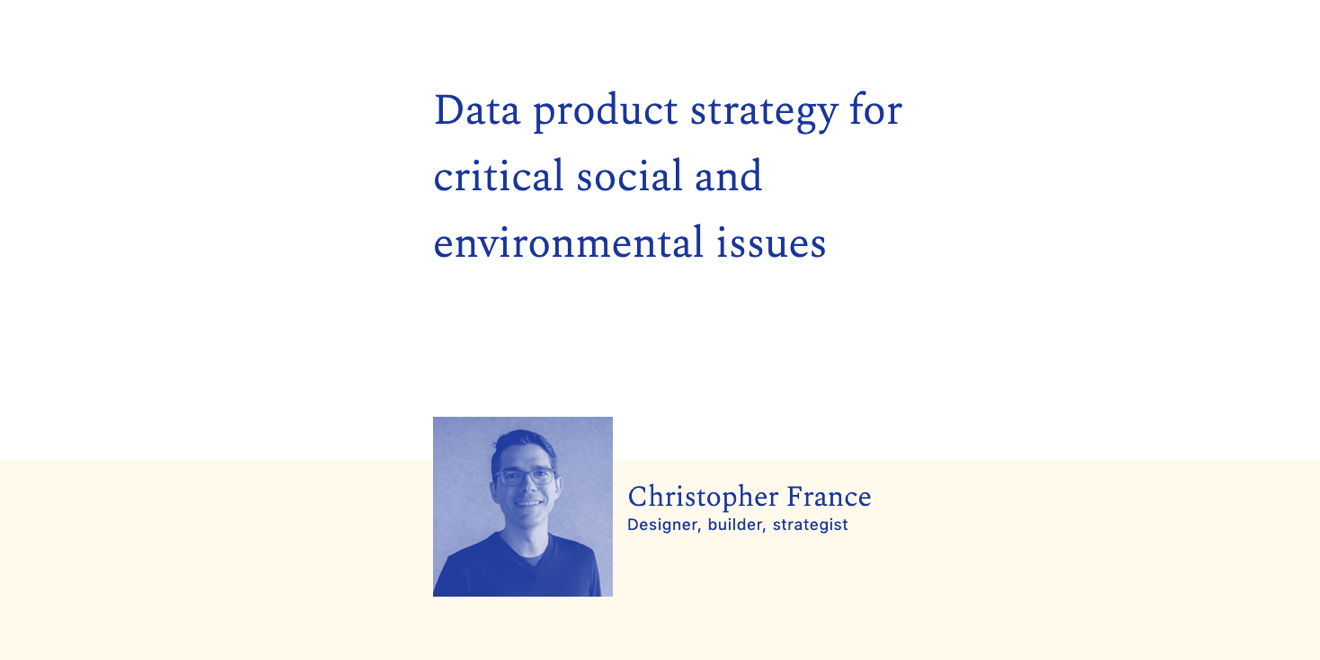
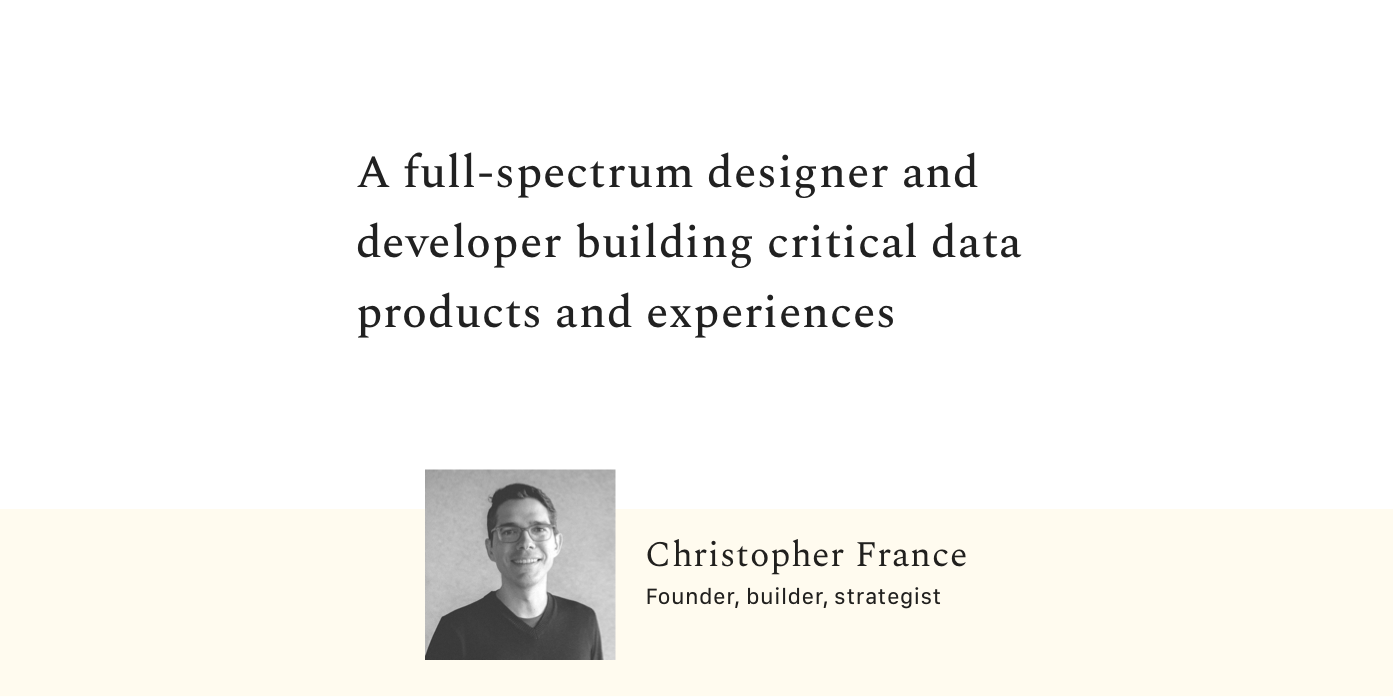
Refine header, black and white photo

Changed region(s): [[0.2795, 0.6061, 0.7144, 0.9697], [0.2485, 0.1515, 0.7455, 0.3939], [0.2485, 0.4242, 0.6523, 0.4848]]

diff --git a/src/pages/index.js b/src/pages/index.js
@@ -2,7 +2,7 @@ import React from 'react'
 import PropTypes from 'prop-types'
 import { Link, graphql } from 'gatsby'
 import styled from 'styled-components'
-import christopherImage from 'assets/christopher3-overlay-213768.png'
+import christopherImage from 'assets/christopher4.png'
 import { Row, Column, SectionTitle, MainContent } from 'styles/styles'
 import theme from 'theme'
 
@@ -88,7 +88,7 @@ const WorkList = styled.ul`
   font-size: 1.1rem;
 
   li {
-    padding: 1rem 0;
+    padding: 0.8rem 0;
     margin: 0;
     font-weight: 300;
 
@@ -105,7 +105,7 @@ const WorkOverview = styled.div`
 
 const ContentInner = styled.div`
   padding: 1rem 16px;
-  max-width: 35rem;
+  max-width: ${theme.mainColumnWidth};
   margin: 0 auto;
 `
 
@@ -114,7 +114,8 @@ const IndexPage = ({ location }) => (
     <HeadlineContent>
       <ContentInner>
         <h1>
-          Data products and sensemaking tools for critical decision support
+          A full-spectrum designer and developer building critical data products
+          and experiences
         </h1>
       </ContentInner>
     </HeadlineContent>
@@ -130,9 +131,9 @@ const IndexPage = ({ location }) => (
       <ContentInner>
         <WelcomeNote>
           <p>
-            I'm a designer and programmer based in Oakland, California. I work
-            on social, civic and environmental themes in a commercial context
-            with a focus on decision support, collaboration and sensemaking.
+            I'm a designer and developer based in Oakland, California. I work on
+            social, civic and environmental themes in a commercial context with
+            a focus on decision support, collaboration and sensemaking.
           </p>
 
           <p>

diff --git a/src/pages/work.js b/src/pages/work.js
@@ -12,6 +12,17 @@ export const ContentInner = styled.div`
   max-width: ${theme.mainColumnWidth};
 `
 
+const WideHeader = styled.div`
+  margin: 2rem;
+  @media all and (min-width: ${theme.maxWidth}) {
+    margin: 0 auto;
+    width: 90%;
+    p {
+      max-width: 500px;
+    }
+  }
+`
+
 const PostCardGrid = styled.div`
   margin: 2rem;
   @media all and (min-width: ${theme.maxWidth}) {
@@ -58,12 +69,12 @@ const PortfolioPage = ({
 }) => (
   <Layout location={location}>
     <>
-      <ContentInner>
+      <WideHeader>
         <Link to="/">
           <Title>Christopher France</Title>
         </Link>
         <Byline />
-      </ContentInner>
+      </WideHeader>
 
       <PostCardGrid>
         {postEdges.map(post => (

diff --git a/src/components/Layout.js b/src/components/Layout.js
@@ -43,7 +43,7 @@ const Layout = ({ children, customSEO, location, style }) => (
                 Overview
               </Link>{' '}
               <Link activeClassName="active" to="/work">
-                Portfolio
+                My work
               </Link>{' '}
               <Link activeClassName="active" to="/contact">
                 Contact

diff --git a/src/styles/styles.js b/src/styles/styles.js
@@ -132,7 +132,7 @@ export const GlobalStyle = createGlobalStyle`
     color: ${theme.colors.primary};
     transition: all ${theme.transitions.normal};
     text-decoration: none;
-    border-bottom: 1px solid ${theme.colors.primaryLight};
+    border-bottom: 1px solid ${theme.colors.blacks[4]};
   }
 
   a:hover {
